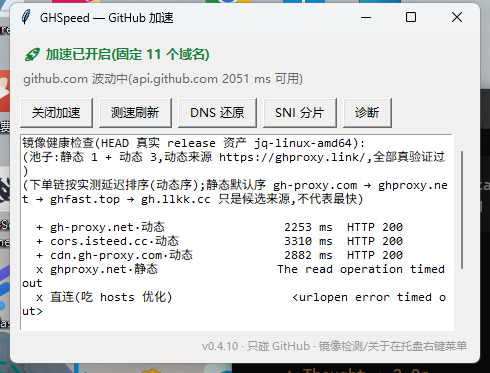
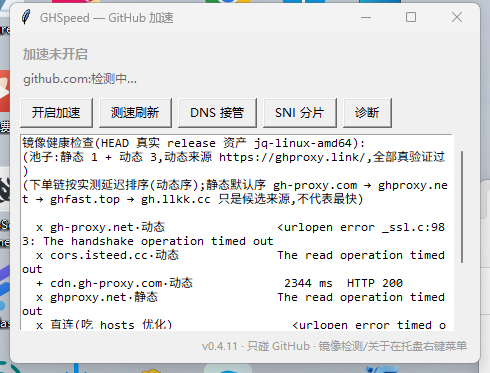
v0.4.11: 修复「关闭加速」偶发 hosts 拒绝访问(WinError 5)
- hosts 写入改为临时文件原子替换 + 多次重试,失败再退回原地重写(不换文件、不动 ACL),清理残留 tmp
- GUI 捕获 PermissionError 时给出可操作提示,不再直接抛 WinError 原文
- 版本号 0.4.11,README 截图同步

diff --git a/ghspeed.py b/ghspeed.py
@@ -106,9 +106,9 @@ REFRESH_INTERVAL = 1800  # 秒
 try:
     with open(os.path.join(os.path.dirname(os.path.abspath(__file__)),
                            "VERSION")) as _f:
-        __version__ = _f.read().strip() or "0.4.10"
+        __version__ = _f.read().strip() or "0.4.11"
 except Exception:
-    __version__ = "0.4.10"
+    __version__ = "0.4.11"
 
 # 只处理这些 GitHub 域名,一个都不多
 DOMAINS = [
@@ -753,6 +753,55 @@ def flush_dns():
         pass
 
 
+def _replace_hosts(text):
+    """把 text 写进 hosts:先临时文件 + 原子替换,替换被拒再退回原地重写。
+
+    Windows 上 hosts 常被安全软件或另一进程的读句柄短暂占住,MoveFileEx
+    会直接抛 WinError 5(拒绝访问)/ 32(占用);这类冲突通常几百毫秒就散,
+    所以先重试几次。仍不行就原地重写(不换文件、不动 ACL),绕开"改名"
+    这一步——很多保护只拦改名/删除,不拦写内容。
+    """
+    tmp = HOSTS_FILE + ".ghspeed.tmp"
+    last = None
+    try:
+        with open(tmp, "w", encoding="utf-8", newline="\n") as f:
+            f.write(text)
+        os.chmod(tmp, 0o644)
+        for delay in (0, 0.2, 0.5, 1.0):
+            if delay:
+                time.sleep(delay)
+            try:
+                os.replace(tmp, HOSTS_FILE)
+                flush_dns()
+                return
+            except PermissionError as e:      # WinError 5 / 32 都归到这里
+                last = e
+                try:                           # 目标带只读属性时先摘掉
+                    os.chmod(HOSTS_FILE, 0o666)
+                except OSError:
+                    pass
+        for delay in (0, 0.2, 0.5, 1.0):
+            if delay:
+                time.sleep(delay)
+            try:
+                os.chmod(HOSTS_FILE, 0o666)
+            except OSError:
+                pass
+            try:
+                with open(HOSTS_FILE, "w", encoding="utf-8", newline="\n") as f:
+                    f.write(text)
+                flush_dns()
+                return
+            except PermissionError as e:
+                last = e
+        raise last
+    finally:
+        try:                                   # 失败也别留垃圾文件
+            os.unlink(tmp)
+        except OSError:
+            pass
+
+
 def write_hosts(state):
     """把 ghspeed 的 hosts 块替换/追加进去,其余内容原样保留"""
     text = read_hosts()
@@ -767,12 +816,7 @@ def write_hosts(state):
             shutil.copy2(HOSTS_FILE, BACKUP_FILE)
             os.chmod(BACKUP_FILE, 0o644)
         text += "\n" + block
-    tmp = HOSTS_FILE + ".ghspeed.tmp"
-    with open(tmp, "w", encoding="utf-8", newline="\n") as f:
-        f.write(text)
-    os.chmod(tmp, 0o644)
-    os.replace(tmp, HOSTS_FILE)
-    flush_dns()
+    _replace_hosts(text)
 
 
 def remove_hosts():
@@ -780,11 +824,7 @@ def remove_hosts():
     if MARK_S in text:
         text = re.sub(re.escape(MARK_S) + r".*?" + re.escape(MARK_E) + r"\n?",
                       "", text, flags=re.S)
-        tmp = HOSTS_FILE + ".ghspeed.tmp"
-        with open(tmp, "w", encoding="utf-8", newline="\n") as f:
-            f.write(text)
-        os.chmod(tmp, 0o644)
-        os.replace(tmp, HOSTS_FILE)
+        _replace_hosts(text)
         flush_dns()
         return True
     return False
